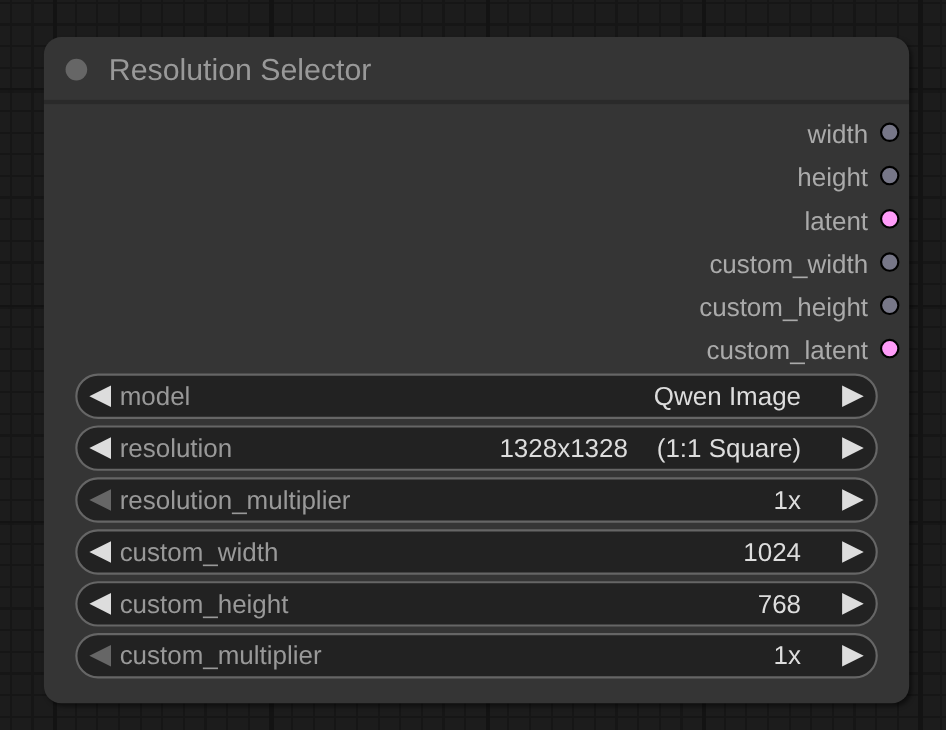
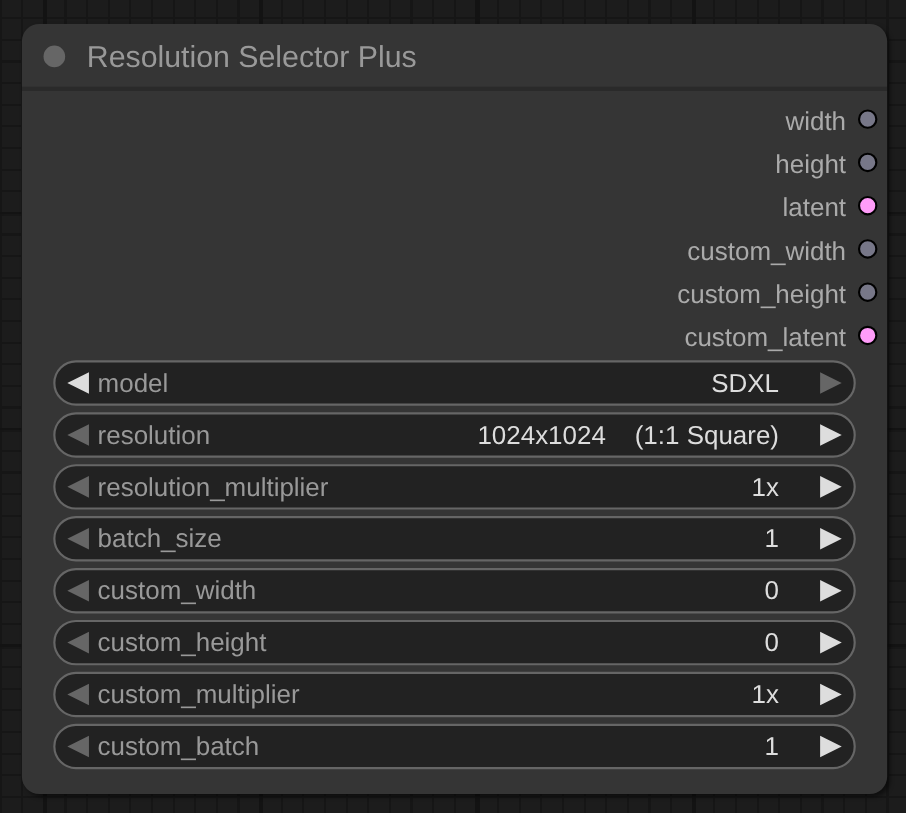
Minor improvements

Changed region(s): [[0.0, 0.0301, 0.989, 0.9945]]

diff --git a/web/js/resolution_selector.js b/web/js/resolution_selector.js
@@ -1,30 +1,32 @@
 import { app } from "/scripts/app.js";
 
+// Model-specific resolution presets with constraints
+// Includes: model-optimized sizes + photo print (4x6, 5x7, 8x10) + digital/social + canvas art ratios
 const MODEL_RESOLUTIONS = {
     "Flux": {
-        "square": [[512, 512], [768, 768], [1024, 1024], [1280, 1280], [1536, 1536], [1920, 1920], [2048, 2048]],
-        "portrait": [[768, 1344], [832, 1216], [896, 1152], [928, 1664], [1024, 1536], [1024, 1792], [1080, 1920], [1152, 2048]],
-        "landscape": [[1344, 768], [1216, 832], [1152, 896], [1536, 1024], [1664, 928], [1792, 1024], [1920, 1080], [2048, 1152]],
+        "square": [[512, 512], [768, 768], [1024, 1024], [1088, 1088], [1280, 1280], [1536, 1536], [1920, 1920], [2048, 2048]],
+        "portrait": [[688, 2048], [768, 1344], [832, 1216], [896, 1152], [928, 1664], [1024, 1536], [1024, 1792], [1024, 2048], [1088, 1920], [1152, 2048], [1200, 1792], [1360, 2048], [1456, 2048], [1536, 2048], [1616, 2048], [1632, 2048], [1712, 2048]],
+        "landscape": [[1280, 720], [1344, 768], [1216, 832], [1152, 896], [1536, 1024], [1664, 928], [1792, 1024], [1792, 1200], [1920, 1088], [2048, 688], [2048, 1024], [2048, 1152], [2048, 1360], [2048, 1456], [2048, 1536], [2048, 1616], [2048, 1632], [2048, 1712]],
     },
     "Qwen Image": {
-        "square": [[1024, 1024], [1280, 1280], [1328, 1328], [1536, 1536], [1920, 1920], [2048, 2048]],
-        "portrait": [[928, 1664], [1024, 1536], [1080, 1920], [1140, 1472], [1152, 2048]],
-        "landscape": [[1472, 1140], [1536, 1024], [1664, 928], [1920, 1080], [2048, 1152]],
+        "square": [[1024, 1024], [1080, 1080], [1280, 1280], [1328, 1328], [1536, 1536], [1920, 1920], [2048, 2048]],
+        "portrait": [[680, 2048], [928, 1664], [1024, 1536], [1024, 2048], [1080, 1920], [1140, 1472], [1152, 2048], [1200, 1800], [1368, 2048], [1464, 2048], [1536, 2048], [1608, 2048], [1640, 2048], [1704, 2048]],
+        "landscape": [[1280, 720], [1472, 1140], [1536, 1024], [1664, 928], [1800, 1200], [1920, 1080], [2048, 680], [2048, 1024], [2048, 1152], [2048, 1368], [2048, 1464], [2048, 1536], [2048, 1608], [2048, 1640], [2048, 1704]],
     },
     "Z-Image": {
-        "square": [[512, 512], [768, 768], [1024, 1024], [1280, 1280], [1536, 1536], [1920, 1920], [2048, 2048]],
-        "portrait": [[720, 1280], [768, 1024], [1080, 1920], [1152, 2048]],
-        "landscape": [[1024, 768], [1280, 720], [1920, 1080], [2048, 1152]],
+        "square": [[512, 512], [768, 768], [1024, 1024], [1080, 1080], [1280, 1280], [1536, 1536], [1920, 1920], [2048, 2048]],
+        "portrait": [[680, 2048], [720, 1280], [768, 1024], [1024, 2048], [1080, 1920], [1152, 2048], [1200, 1800], [1368, 2048], [1464, 2048], [1536, 2048], [1608, 2048], [1640, 2048], [1704, 2048]],
+        "landscape": [[1024, 768], [1280, 720], [1800, 1200], [1920, 1080], [2048, 680], [2048, 1024], [2048, 1152], [2048, 1368], [2048, 1464], [2048, 1536], [2048, 1608], [2048, 1640], [2048, 1704]],
     },
     "SD 1.5": {
-        "square": [[512, 512], [768, 768], [1024, 1024], [1280, 1280], [1536, 1536]],
-        "portrait": [[512, 768], [512, 682], [512, 1024], [768, 1024], [768, 1344], [1080, 1920]],
-        "landscape": [[768, 512], [1024, 512], [1024, 768], [1344, 768], [1536, 512], [1920, 1080]],
+        "square": [[512, 512], [768, 768], [1024, 1024], [1080, 1080], [1280, 1280], [1536, 1536]],
+        "portrait": [[512, 768], [512, 682], [512, 1024], [680, 2048], [768, 1024], [768, 1344], [1024, 2048], [1080, 1920], [1200, 1800], [1368, 2048], [1464, 2048], [1536, 2048], [1608, 2048], [1640, 2048], [1704, 2048]],
+        "landscape": [[768, 512], [1024, 512], [1024, 768], [1280, 720], [1344, 768], [1536, 512], [1800, 1200], [1920, 1080], [2048, 680], [2048, 1024], [2048, 1368], [2048, 1464], [2048, 1536], [2048, 1608], [2048, 1640], [2048, 1704]],
     },
     "SDXL": {
-        "square": [[1024, 1024], [1280, 1280], [1536, 1536], [1920, 1920], [2048, 2048]],
-        "portrait": [[640, 1536], [768, 1344], [832, 1216], [896, 1152], [1024, 1536], [1080, 1920], [1152, 2048]],
-        "landscape": [[1152, 896], [1216, 832], [1344, 768], [1536, 640], [1536, 1024], [1920, 1080], [2048, 1152]],
+        "square": [[1024, 1024], [1080, 1080], [1280, 1280], [1536, 1536], [1920, 1920], [2048, 2048]],
+        "portrait": [[640, 1536], [680, 2048], [768, 1344], [832, 1216], [896, 1152], [1024, 1536], [1024, 2048], [1080, 1920], [1152, 2048], [1200, 1800], [1368, 2048], [1464, 2048], [1536, 2048], [1608, 2048], [1640, 2048], [1704, 2048]],
+        "landscape": [[1152, 896], [1216, 832], [1280, 720], [1344, 768], [1536, 640], [1536, 1024], [1800, 1200], [1920, 1080], [2048, 680], [2048, 1024], [2048, 1152], [2048, 1368], [2048, 1464], [2048, 1536], [2048, 1608], [2048, 1640], [2048, 1704]],
     }
 };
 
@@ -60,21 +62,22 @@ function calculateAspectRatio(width, height) {
         [0.56, "9:16"],    // 0.5625
         [0.5, "1:2"],      // 0.5
         [0.42, "5:12"],    // 0.4166...
+        [0.33, "1:3"],     // 0.333... (panoramic)
     ];
 
-    // Find closest common ratio (within 5% tolerance)
-    const tolerance = 0.05;
-    for (const [ratioValue, ratioStr] of commonRatios) {
-        if (Math.abs(actualRatio - ratioValue) / ratioValue < tolerance) {
-            return ratioStr;
+    // Find closest common ratio by absolute difference
+    let closestRatio = commonRatios[0];
+    let minDiff = Math.abs(actualRatio - closestRatio[0]);
+
+    for (const ratio of commonRatios) {
+        const diff = Math.abs(actualRatio - ratio[0]);
+        if (diff < minDiff) {
+            minDiff = diff;
+            closestRatio = ratio;
         }
     }
 
-    // If no close match, calculate GCD-based ratio
-    const divisor = gcd(width, height);
-    const ratioWidth = width / divisor;
-    const ratioHeight = height / divisor;
-    return `${ratioWidth}:${ratioHeight}`;
+    return closestRatio[1];
 }
 
 function formatResolution(width, height) {

diff --git a/resolution_selector.py b/resolution_selector.py
@@ -8,35 +8,36 @@ except ImportError:
 
 
 # Model-specific resolution presets with constraints
+# Includes: model-optimized sizes + photo print (4x6, 5x7, 8x10) + digital/social + canvas art ratios
 MODEL_RESOLUTIONS = {
     "Flux": {
-        "square": [(512, 512), (768, 768), (1024, 1024), (1280, 1280), (1536, 1536), (1920, 1920), (2048, 2048)],
-        "portrait": [(768, 1344), (832, 1216), (896, 1152), (928, 1664), (1024, 1536), (1024, 1792), (1080, 1920), (1152, 2048)],
-        "landscape": [(1344, 768), (1216, 832), (1152, 896), (1536, 1024), (1664, 928), (1792, 1024), (1920, 1080), (2048, 1152)],
+        "square": [(512, 512), (768, 768), (1024, 1024), (1088, 1088), (1280, 1280), (1536, 1536), (1920, 1920), (2048, 2048)],
+        "portrait": [(688, 2048), (768, 1344), (832, 1216), (896, 1152), (928, 1664), (1024, 1536), (1024, 1792), (1024, 2048), (1088, 1920), (1152, 2048), (1200, 1792), (1360, 2048), (1456, 2048), (1536, 2048), (1616, 2048), (1632, 2048), (1712, 2048)],
+        "landscape": [(1280, 720), (1344, 768), (1216, 832), (1152, 896), (1536, 1024), (1664, 928), (1792, 1024), (1792, 1200), (1920, 1088), (2048, 688), (2048, 1024), (2048, 1152), (2048, 1360), (2048, 1456), (2048, 1536), (2048, 1616), (2048, 1632), (2048, 1712)],
         "constraints": {"divisible_by": 16, "min": 256, "max": 2048}
     },
     "Qwen Image": {
-        "square": [(1024, 1024), (1280, 1280), (1328, 1328), (1536, 1536), (1920, 1920), (2048, 2048)],
-        "portrait": [(928, 1664), (1024, 1536), (1080, 1920), (1140, 1472), (1152, 2048)],
-        "landscape": [(1472, 1140), (1536, 1024), (1664, 928), (1920, 1080), (2048, 1152)],
+        "square": [(1024, 1024), (1080, 1080), (1280, 1280), (1328, 1328), (1536, 1536), (1920, 1920), (2048, 2048)],
+        "portrait": [(680, 2048), (928, 1664), (1024, 1536), (1024, 2048), (1080, 1920), (1140, 1472), (1152, 2048), (1200, 1800), (1368, 2048), (1464, 2048), (1536, 2048), (1608, 2048), (1640, 2048), (1704, 2048)],
+        "landscape": [(1280, 720), (1472, 1140), (1536, 1024), (1664, 928), (1800, 1200), (1920, 1080), (2048, 680), (2048, 1024), (2048, 1152), (2048, 1368), (2048, 1464), (2048, 1536), (2048, 1608), (2048, 1640), (2048, 1704)],
         "constraints": {"divisible_by": 8, "min": 256, "max": 2048}
     },
     "Z-Image": {
-        "square": [(512, 512), (768, 768), (1024, 1024), (1280, 1280), (1536, 1536), (1920, 1920), (2048, 2048)],
-        "portrait": [(720, 1280), (768, 1024), (1080, 1920), (1152, 2048)],
-        "landscape": [(1024, 768), (1280, 720), (1920, 1080), (2048, 1152)],
+        "square": [(512, 512), (768, 768), (1024, 1024), (1080, 1080), (1280, 1280), (1536, 1536), (1920, 1920), (2048, 2048)],
+        "portrait": [(680, 2048), (720, 1280), (768, 1024), (1024, 2048), (1080, 1920), (1152, 2048), (1200, 1800), (1368, 2048), (1464, 2048), (1536, 2048), (1608, 2048), (1640, 2048), (1704, 2048)],
+        "landscape": [(1024, 768), (1280, 720), (1800, 1200), (1920, 1080), (2048, 680), (2048, 1024), (2048, 1152), (2048, 1368), (2048, 1464), (2048, 1536), (2048, 1608), (2048, 1640), (2048, 1704)],
         "constraints": {"divisible_by": 8, "min": 256, "max": 2048}
     },
     "SD 1.5": {
-        "square": [(512, 512), (768, 768), (1024, 1024), (1280, 1280), (1536, 1536)],
-        "portrait": [(512, 768), (512, 682), (512, 1024), (768, 1024), (768, 1344), (1080, 1920)],
-        "landscape": [(768, 512), (1024, 512), (1024, 768), (1344, 768), (1536, 512), (1920, 1080)],
+        "square": [(512, 512), (768, 768), (1024, 1024), (1080, 1080), (1280, 1280), (1536, 1536)],
+        "portrait": [(512, 768), (512, 682), (512, 1024), (680, 2048), (768, 1024), (768, 1344), (1024, 2048), (1080, 1920), (1200, 1800), (1368, 2048), (1464, 2048), (1536, 2048), (1608, 2048), (1640, 2048), (1704, 2048)],
+        "landscape": [(768, 512), (1024, 512), (1024, 768), (1280, 720), (1344, 768), (1536, 512), (1800, 1200), (1920, 1080), (2048, 680), (2048, 1024), (2048, 1368), (2048, 1464), (2048, 1536), (2048, 1608), (2048, 1640), (2048, 1704)],
         "constraints": {"divisible_by": 8, "min": 256, "max": 2048}
     },
     "SDXL": {
-        "square": [(1024, 1024), (1280, 1280), (1536, 1536), (1920, 1920), (2048, 2048)],
-        "portrait": [(640, 1536), (768, 1344), (832, 1216), (896, 1152), (1024, 1536), (1080, 1920), (1152, 2048)],
-        "landscape": [(1152, 896), (1216, 832), (1344, 768), (1536, 640), (1536, 1024), (1920, 1080), (2048, 1152)],
+        "square": [(1024, 1024), (1080, 1080), (1280, 1280), (1536, 1536), (1920, 1920), (2048, 2048)],
+        "portrait": [(640, 1536), (680, 2048), (768, 1344), (832, 1216), (896, 1152), (1024, 1536), (1024, 2048), (1080, 1920), (1152, 2048), (1200, 1800), (1368, 2048), (1464, 2048), (1536, 2048), (1608, 2048), (1640, 2048), (1704, 2048)],
+        "landscape": [(1152, 896), (1216, 832), (1280, 720), (1344, 768), (1536, 640), (1536, 1024), (1800, 1200), (1920, 1080), (2048, 680), (2048, 1024), (2048, 1152), (2048, 1368), (2048, 1464), (2048, 1536), (2048, 1608), (2048, 1640), (2048, 1704)],
         "constraints": {"divisible_by": 8, "min": 256, "max": 2048}
     }
 }
@@ -60,7 +61,7 @@ def gcd(a, b):
 
 def calculate_aspect_ratio(width, height):
     """
-    Calculate simplified aspect ratio from dimensions, rounding to common ratios.
+    Calculate simplified aspect ratio from dimensions, using nearest common ratio.
 
     Args:
         width (int): Width in pixels
@@ -91,19 +92,12 @@ def calculate_aspect_ratio(width, height):
         (0.56, "9:16"),    # 0.5625
         (0.5, "1:2"),      # 0.5
         (0.42, "5:12"),    # 0.4166...
+        (0.33, "1:3"),     # 0.333... (panoramic)
     ]
 
-    # Find closest common ratio (within 5% tolerance)
-    tolerance = 0.05
-    for ratio_value, ratio_str in common_ratios:
-        if abs(actual_ratio - ratio_value) / ratio_value < tolerance:
-            return ratio_str
-
-    # If no close match, calculate GCD-based ratio
-    divisor = gcd(width, height)
-    ratio_width = width // divisor
-    ratio_height = height // divisor
-    return f"{ratio_width}:{ratio_height}"
+    # Find closest common ratio by absolute difference
+    closest_ratio = min(common_ratios, key=lambda r: abs(actual_ratio - r[0]))
+    return closest_ratio[1]
 
 
 def format_resolution(width, height):
@@ -283,6 +277,13 @@ class ResolutionSelector:
                 "resolution_multiplier": (["1x", "2x", "3x", "4x"], {
                     "default": "1x"
                 }),
+                "batch_size": ("INT", {
+                    "default": 1,
+                    "min": 1,
+                    "max": 64,
+                    "step": 1,
+                    "display": "number"
+                }),
             },
             "optional": {
                 "custom_width": ("INT", {
@@ -302,6 +303,13 @@ class ResolutionSelector:
                 "custom_multiplier": (["1x", "2x", "3x", "4x"], {
                     "default": "1x"
                 }),
+                "custom_batch": ("INT", {
+                    "default": 1,
+                    "min": 1,
+                    "max": 64,
+                    "step": 1,
+                    "display": "number"
+                }),
             }
         }
 
@@ -310,7 +318,7 @@ class ResolutionSelector:
     FUNCTION = "select_resolution"
     CATEGORY = "utils"
 
-    def select_resolution(self, model, resolution, resolution_multiplier="1x", custom_width=0, custom_height=0, custom_multiplier="1x"):
+    def select_resolution(self, model, resolution, resolution_multiplier="1x", batch_size=1, custom_width=0, custom_height=0, custom_multiplier="1x", custom_batch=1):
         """
         Select and validate resolution, generate outputs.
 
@@ -318,9 +326,11 @@ class ResolutionSelector:
             model (str): Selected model name
             resolution (str): Selected preset resolution string
             resolution_multiplier (str): Multiplier for resolution (1x-4x)
+            batch_size (int): Number of latent samples for preset resolution (default: 1)
             custom_width (int, optional): Custom width override
             custom_height (int, optional): Custom height override
             custom_multiplier (str, optional): Multiplier for custom dimensions (1x-4x)
+            custom_batch (int, optional): Number of latent samples for custom resolution (default: 1)
 
         Returns:
             tuple: (width: int, height: int, latent: dict, custom_width: int, custom_height: int, custom_latent: dict)
@@ -336,8 +346,8 @@ class ResolutionSelector:
         width *= multiplier
         height *= multiplier
 
-        # Generate latent for preset resolution
-        latent = self._generate_empty_latent(width, height)
+        # Generate latent for preset resolution with batch size
+        latent = self._generate_empty_latent(width, height, batch_size)
 
         # Determine final custom dimensions
         if custom_width > 0 and custom_height > 0:
@@ -349,13 +359,13 @@ class ResolutionSelector:
             if model != "All":
                 self._validate_dimensions(model, final_custom_width, final_custom_height)
 
-            # Generate custom latent
-            custom_latent = self._generate_empty_latent(final_custom_width, final_custom_height)
+            # Generate custom latent with custom batch size
+            custom_latent = self._generate_empty_latent(final_custom_width, final_custom_height, custom_batch)
 
             return (width, height, latent, final_custom_width, final_custom_height, custom_latent)
         else:
             # No custom dimensions, return zeros and minimal empty custom latent
-            custom_latent = self._generate_empty_latent(1, 1)
+            custom_latent = self._generate_empty_latent(1, 1, 1)
 
             return (width, height, latent, 0, 0, custom_latent)
 
@@ -433,5 +443,5 @@ NODE_CLASS_MAPPINGS = {
 }
 
 NODE_DISPLAY_NAME_MAPPINGS = {
-    "ResolutionSelector": "Resolution Selector",
+    "ResolutionSelector": "Resolution Selector Plus",
 }

diff --git a/test_resolution_selector.py b/test_resolution_selector.py
@@ -85,7 +85,8 @@ def test_model_resolutions():
     flux_res = get_resolution_list("Flux")
     print(f"  Flux has {len(flux_res)} resolutions")
     assert len(flux_res) > 0, "Flux should have resolutions"
-    assert any("1920x1080" in r for r in flux_res), "Flux should have 1920x1080"
+    # Flux uses 16-pixel divisibility, so 1920x1080 becomes 1920x1088
+    assert any("1920x1088" in r for r in flux_res), "Flux should have 1920x1088 (Full HD adapted to 16px divisibility)"
 
     # Test All model
     all_res = get_resolution_list("All")

diff --git a/README.md b/README.md
@@ -1,4 +1,4 @@
-# Resolution Selector for ComfyUI
+# Resolution Selector Plus for ComfyUI
 
 Custom node for [ComfyUI](https://github.com/comfyanonymous/ComfyUI) providing easy resolution and empty latent selection for image generation workflows.
 
@@ -21,52 +21,54 @@ cd pathTo/ComfyUI
 cd custom_nodes
 
 # Clone the repo into custom_nodes
-git clone https://github.com/bradsec/ComfyUI_ResolutionSelector.git
+git clone https://github.com/bradsec/ComfyUI_ResolutionSelectorPlus.git
 
 # Restart ComfyUI
 ```
 
 ## Usage
 
-### Resolution Selector
+### Resolution Selector Plus
 
-**Add Node:** `Add Node > utils > Resolution Selector`
+**Add Node:** `Add Node > utils > Resolution Selector Plus`
 
 **Inputs:**
 - `model` (dropdown) - Select your image generation model or "All" for all resolutions
 - `resolution` (dropdown) - Choose from model-optimized presets with aspect ratios (e.g., "1920x1080 (16:9 Landscape)")
 - `resolution_multiplier` (dropdown) - Multiply preset resolution (1x, 2x, 3x, 4x)
+- `batch_size` (number) - Number of latent samples to generate (1-64, default: 1)
 - `custom_width` (optional) - Override with custom width (0-4096, step 8)
 - `custom_height` (optional) - Override with custom height (0-4096, step 8)
 - `custom_multiplier` (optional) - Independent multiplier for custom dimensions (1x, 2x, 3x, 4x)
+- `custom_batch` (optional) - Number of latent samples for custom resolution (1-64, default: 1)
 
 **Outputs:**
 - `width` (INT) - Preset resolution width in pixels
 - `height` (INT) - Preset resolution height in pixels
-- `latent` (LATENT) - Empty latent tensor for preset resolution
+- `latent` (LATENT) - Empty latent tensor for preset resolution (batch_size samples)
 - `custom_width` (INT) - Custom width (0 if not set)
 - `custom_height` (INT) - Custom height (0 if not set)
-- `custom_latent` (LATENT) - Empty latent tensor for custom resolution
+- `custom_latent` (LATENT) - Empty latent tensor for custom resolution (custom_batch samples)
 
 **Example Workflows:**
 
 **Basic preset with multiplier:**
 ```
-Resolution Selector (model: SDXL, resolution: "1024x1024 (1:1 Square)", multiplier: 2x)
+Resolution Selector Plus (model: SDXL, resolution: "1024x1024 (1:1 Square)", multiplier: 2x)
   → width: 2048, height: 2048
   → latent → KSampler
 ```
 
 **Custom dimensions with independent multiplier:**
 ```
-Resolution Selector (custom_width: 1024, custom_height: 768, custom_multiplier: 2x)
+Resolution Selector Plus (custom_width: 1024, custom_height: 768, custom_multiplier: 2x)
   → custom_width: 2048, custom_height: 1536
   → custom_latent → KSampler
 ```
 
 **Using "All" model option:**
 ```
-Resolution Selector (model: All, resolution: "1920x1080 (16:9 Landscape)")
-  → Shows all 34 unique resolutions from all models
+Resolution Selector Plus (model: All, resolution: "1920x1080 (16:9 Landscape)")
+  → Shows all 74 unique resolutions from all models
 ```
 
